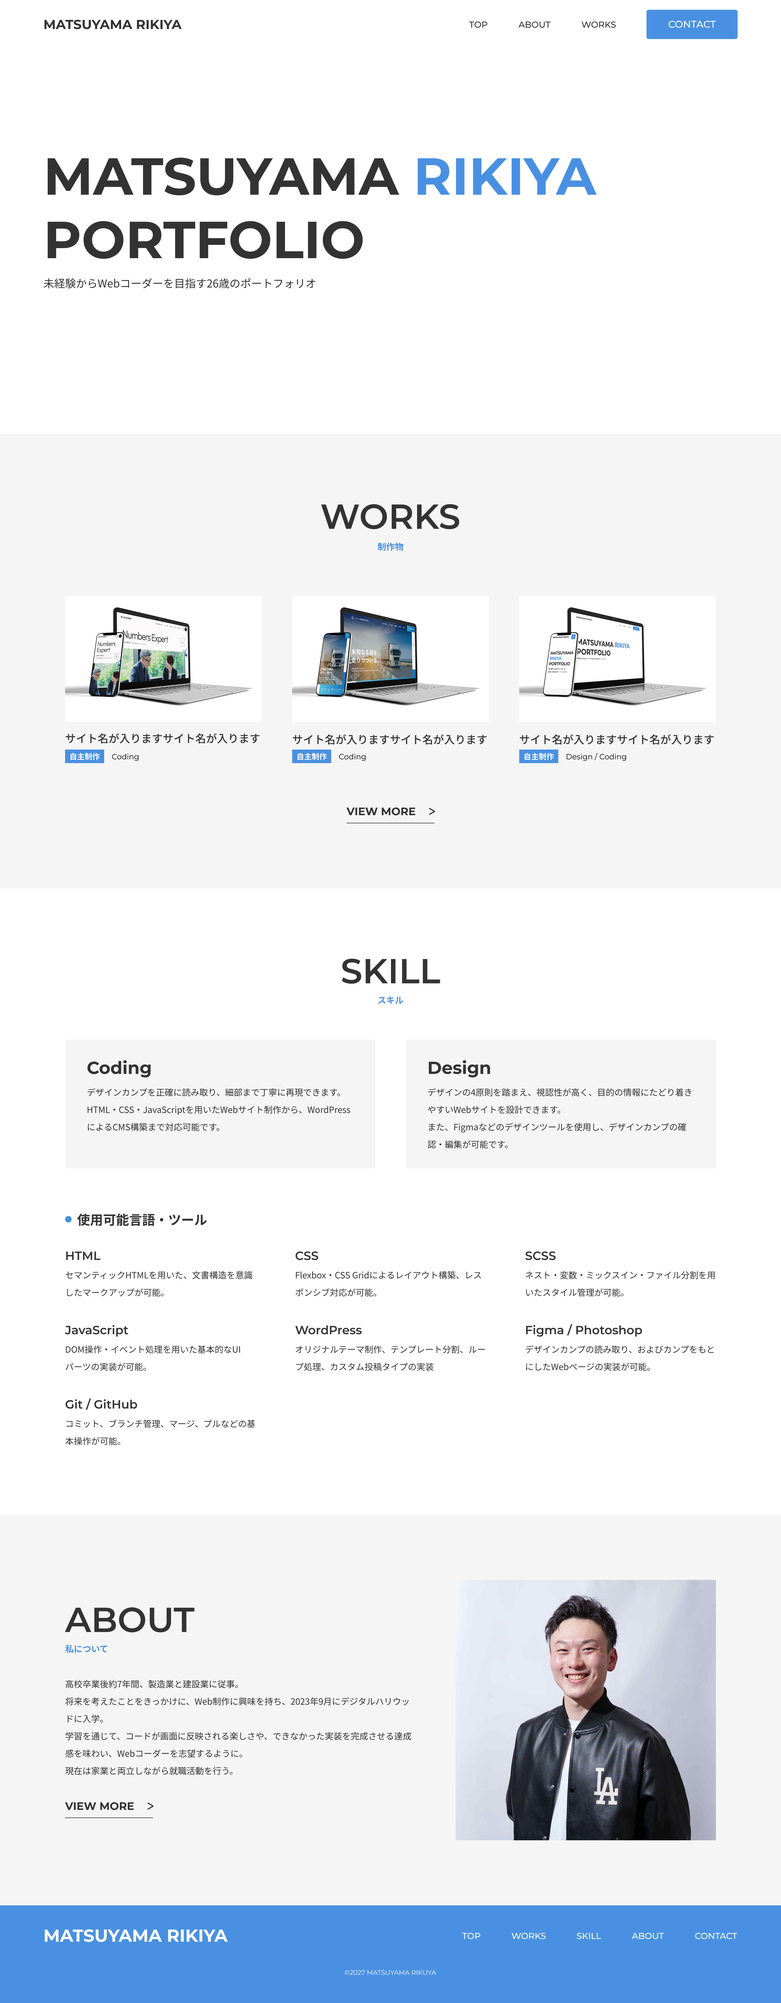
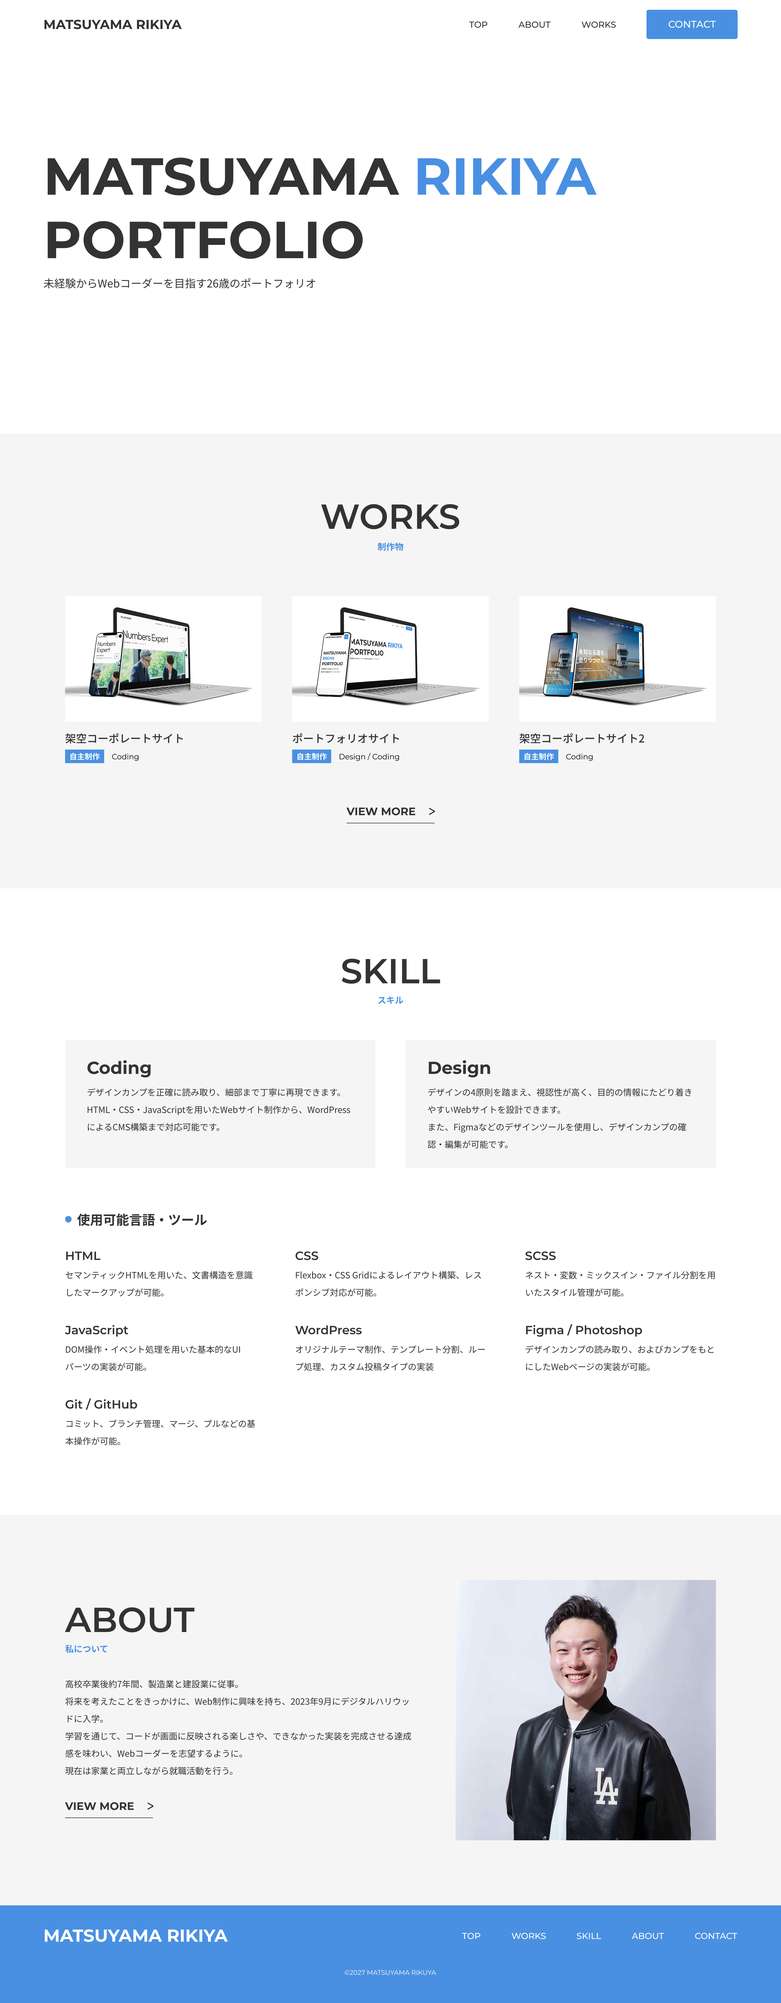
update: works詳細ページ 各ページのテキストを差し替え

Changed region(s): [[0.6875, 0.2803, 0.8438, 0.3737], [0.4062, 0.2803, 0.5312, 0.3737]]

diff --git a/works/detail/index.html b/works/detail/index.html
@@ -94,29 +94,36 @@
                     <!-- content -->
                     <div class="p-works-detail__content">
                         <p class="p-works-detail__text">
-                            <span>就職活動用のポートフォリオサイトです。</span>
-                            <span>コンテンツ構成設計から行い、採用担当の方が迷わないサイトを目指しました。</span>
+                            <span>HTML・CSS・JavaScriptのスキルを証明することを目的に制作した、</span>
+                            <span>架空の会計事務所「青山会計事務所」のWebサイトです。</span>
                         </p>
 
                         <dl>
                             <div class="p-works-detail__item">
-                                <dt>date</dt>
-                                <dd>2026.10</dd>
+                                <dt>制作日</dt>
+                                <dd>2026.09 ~ 2026.10</dd>
                             </div>
                             <div class="p-works-detail__item">
-                                <dt>site url</dt>
+                                <dt>デザインカンプ 提供元</dt>
+                                <dd>
+                                    <a class="u-link"
+                                        href="https://brain-market.com/u/hiroyuu/a/b0QzN5kTMgoTZsNWa0JXY">https://brain-market.com/u/hiroyuu/a/b0QzN5kTMgoTZsNWa0JXY</a>
+                                </dd>
+                            </div>
+                            <div class="p-works-detail__item">
+                                <dt>サイトurl</dt>
                                 <dd><a class="u-link"
                                         href="https://matsuyamarikiya.jp/accounting_firm_wordpress/">https://matsuyamarikiya.jp/accounting_firm_wordpress/</a>
                                 </dd>
                             </div>
                             <div class="p-works-detail__item">
-                                <dt>Frontend source</dt>
+                                <dt>ソースコード (フロントエンド)</dt>
                                 <dd><a class="u-link"
                                         href="https://github.com/matsuriki980/accounting_firm">https://github.com/matsuriki980/accounting_firm</a>
                                 </dd>
                             </div>
                             <div class="p-works-detail__item">
-                                <dt>WordPress source</dt>
+                                <dt>ソースコード (WordPress)</dt>
                                 <dd><a class="u-link"
                                         href="https://github.com/matsuriki980/accounting_firm_wordpress">https://github.com/matsuriki980/accounting_firm_wordpress</a>
                                 </dd>
@@ -144,7 +151,7 @@
                     <dl class="p-works-detail__explanation-list">
                         <div class="p-works-detail__explanation-item">
                             <dt>目的</dt>
-                            <dd>自身のスキルを伝え、Webコーダーとして採用していただくこと</dd>
+                            <dd>フロントエンドスキルとWordPressによるCMS構築スキルを伝えること</dd>
                         </div>
                         <div class="p-works-detail__explanation-item">
                             <dt>担当範囲</dt>
@@ -155,36 +162,57 @@
                             <dd>HTML / </dd>
                             <dd>SCSS / </dd>
                             <dd>JavaScript / </dd>
+                            <dd>WordPress / </dd>
                             <dd>Git・GitHub</dd>
                         </div>
                         <div class="p-works-detail__explanation-item">
                             <dt>制作期間</dt>
                             <dd>
-                                <span>デザイン：約4日</span>
-                                <span>コーディング：約10日</span>
+                                <span>HTML・SCSSコーディング：約2週間</span>
+                                <span>JavaScript実装：約4日</span>
+                                <span>WordPress構築：約8日</span>
                             </dd>
                         </div>
                         <div class="p-works-detail__explanation-item">
                             <dt>工夫した点</dt>
                             <dd>
                                 <div class="p-works-detail__description-group">
-                                    <span
-                                        class="p-works-detail__description-title">JavaScriptとCSS変数を活用したレスポンシブアニメーションの実装</span>
-                                    <span class="p-works-detail__description-text">4つの項目を示す円を線でつなぎ、線が伸びるアニメーションを実装しました。
-                                        当初はposition: absoluteを使用し、pxや%で線の位置と長さを指定していましたが、画面幅によって線がずれる問題が発生しました。
-                                        そこで、JavaScriptのgetBoundingClientRect()を使用し、ビューポートを基準に各要素の位置を取得する方法に変更しました。
-                                        具体的には、画面の上端・左端から円までの距離と、最初の円から最後の円までの距離を算出し、線の位置と長さを求めました。
-                                        算出した値をCSSカスタムプロパティ（CSS変数）に反映することで、画面幅に応じて線の位置と長さを自動調整できるようにしました。
-                                        これにより、画面幅による線のずれを解消し、レスポンシブに対応したアニメーションを実現しました。</span>
+                                    <span class="p-works-detail__description-title">再利用性と保守性を意識したコンポーネント設計</span>
+                                    <span class="p-works-detail__description-text">
+                                        <span>ヘッダー、フッター、セクションタイトルなど、複数ページで使用する共通パーツをHTML・CSSの両面からコンポーネント化し、再利用できるように設計しました。</span>
+                                        <span>これにより、デザインや構造の変更が発生した際も、共通部分を修正するだけで各ページに変更を反映できるようにしました。</span>
+                                        <span>結果として、コードの重複を減らし、保守性の向上と修正作業の効率化を図りました。</span>
+                                    </span>
+                                </div>
+
+                                <div class="p-works-detail__description-group">
+                                    <span class="p-works-detail__description-title">remを活用した可変レイアウトの実装</span>
+                                    <span class="p-works-detail__description-text">
+                                        <span>html要素のfont-sizeをcalc(100vw /
+                                            var(--base-vw))で設定し、画面幅に応じてrem単位の要素が比例して拡大・縮小する可変レイアウトを実装しました。</span>
+                                        <span>スマートフォンでは375px、PCでは1440pxを基準幅として切り替えることで、デザインカンプの数値をそのままrem単位で指定できるようにしました。</span>
+                                        <span>これにより、デザインカンプの数値を変換する手間を省きながら、画面幅に応じたサイズ調整を自動化し、実装作業の効率化と保守性の向上を図りました。</span>
+                                    </span>
+                                </div>
+
+                                <div class="p-works-detail__description-group">
+                                    <span class="p-works-detail__description-title">ページ判定によるメタ情報の一括管理 (WordPress)</span>
+                                    <span class="p-works-detail__description-text">
+                                        <span>ページごとに異なるtitleやog:typeなどのメタ情報を、条件分岐によって一括管理する仕組みを実装しました。</span>
+                                        <span>具体的には、ページの種類に応じて出力する値を判定し、変数に格納することで、共通のHTML構造から各ページに適したメタ情報を出力できるようにしました。</span>
+                                        <span>これにより、テンプレート内の重複した記述を削減し、コードの可読性と保守性の向上を図りました。</span>
+                                    </span>
                                 </div>
 
                                 <div class="p-works-detail__description-group">
                                     <span
-                                        class="p-works-detail__description-title">Works詳細ページにおけるSP・PC画像の切り替え機能の実装</span>
-                                    <span
-                                        class="p-works-detail__description-text">スマートフォンでの閲覧時に、SP・PC両方の画像を縦に並べると、スクロール量が増え、ユーザーの操作負担が大きくなるという課題がありました。
-                                        そこで、一度に表示する画像を1つに絞り、ボタン操作でSP・PCの画像を切り替えられる機能を実装しました。
-                                        これにより、不要なスクロールを減らし、ユーザーが必要な画像を選んで閲覧できるようにしました。</span>
+                                        class="p-works-detail__description-title">functions.phpによるCSS・JavaScriptの読み込み管理
+                                        (WordPress)</span>
+                                    <span class="p-works-detail__description-text">
+                                        <span>CSSやJavaScriptの読み込み処理を各テンプレートファイルに記述すると、管理が複雑になり、修正時の作業負担が増えるという課題がありました。</span>
+                                        <span>そこで、WordPressのfunctions.phpにwp_enqueue_style()とwp_enqueue_script()を使用した読み込み処理を集約し、一括管理できるようにしました。</span>
+                                        <span>これにより、各テンプレートへの重複した記述を防ぎ、コードの保守性と管理効率の向上を図りました。</span>
+                                    </span>
                                 </div>
                             </dd>
                         </div>

diff --git a/works/detail2/index.html b/works/detail2/index.html
@@ -100,17 +100,17 @@
 
                         <dl>
                             <div class="p-works-detail__item">
-                                <dt>date</dt>
+                                <dt>制作日</dt>
                                 <dd>2026.10</dd>
                             </div>
                             <div class="p-works-detail__item">
-                                <dt>site url</dt>
+                                <dt>サイトurl</dt>
                                 <dd><a class="u-link"
                                         href="https://matsuyamarikiya.jp/my_portfolio/">https://matsuyamarikiya.jp/my_portfolio/</a>
                                 </dd>
                             </div>
                             <div class="p-works-detail__item">
-                                <dt>frontend source</dt>
+                                <dt>ソースコード (フロントエンド)</dt>
                                 <dd><a class="u-link"
                                         href="https://github.com/matsuriki980/my_portfolio">https://github.com/matsuriki980/my_portfolio</a>
                                 </dd>
@@ -142,14 +142,15 @@
                         </div>
                         <div class="p-works-detail__explanation-item">
                             <dt>担当範囲</dt>
-                            <dd>コーディング</dd>
+                            <dd>デザイン / コーディング</dd>
                         </div>
                         <div class="p-works-detail__explanation-item">
                             <dt>使用技術</dt>
                             <dd>HTML / </dd>
                             <dd>SCSS / </dd>
                             <dd>JavaScript / </dd>
-                            <dd>Git・GitHub</dd>
+                            <dd>Git・GitHub /</dd>
+                            <dd>Figma</dd>
                         </div>
                         <div class="p-works-detail__explanation-item">
                             <dt>制作期間</dt>
@@ -164,21 +165,25 @@
                                 <div class="p-works-detail__description-group">
                                     <span
                                         class="p-works-detail__description-title">JavaScriptとCSS変数を活用したレスポンシブアニメーションの実装</span>
-                                    <span class="p-works-detail__description-text">4つの項目を示す円を線でつなぎ、線が伸びるアニメーションを実装しました。
-                                        当初はposition: absoluteを使用し、pxや%で線の位置と長さを指定していましたが、画面幅によって線がずれる問題が発生しました。
-                                        そこで、JavaScriptのgetBoundingClientRect()を使用し、ビューポートを基準に各要素の位置を取得する方法に変更しました。
-                                        具体的には、画面の上端・左端から円までの距離と、最初の円から最後の円までの距離を算出し、線の位置と長さを求めました。
-                                        算出した値をCSSカスタムプロパティ（CSS変数）に反映することで、画面幅に応じて線の位置と長さを自動調整できるようにしました。
-                                        これにより、画面幅による線のずれを解消し、レスポンシブに対応したアニメーションを実現しました。</span>
+                                    <span class="p-works-detail__description-text">
+                                        <span>4つの項目を示す円を線でつなぎ、線が伸びるアニメーションを実装しました。</span>
+                                        <span>当初はposition:
+                                            absoluteを使用し、pxや%で線の位置と長さを指定していましたが、画面幅によって線がずれる問題が発生しました。</span>
+                                        <span>そこで、JavaScriptのgetBoundingClientRect()を使用し、ビューポートを基準に各要素の位置を取得する方法に変更しました。</span>
+                                        <span>具体的には、画面の上端・左端から円までの距離と、最初の円から最後の円までの距離を算出し、線の位置と長さを求めました。</span>
+                                        <span>算出した値をCSSカスタムプロパティ（CSS変数）に反映することで、画面幅に応じて線の位置と長さを自動調整できるようにしました。</span>
+                                        <span>これにより、画面幅による線のずれを解消し、レスポンシブに対応したアニメーションを実現しました。</span>
+                                    </span>
                                 </div>
 
                                 <div class="p-works-detail__description-group">
                                     <span
-                                        class="p-works-detail__description-title">Works詳細ページにおけるSP・PC画像の切り替え機能の実装</span>
-                                    <span
-                                        class="p-works-detail__description-text">スマートフォンでの閲覧時に、SP・PC両方の画像を縦に並べると、スクロール量が増え、ユーザーの操作負担が大きくなるという課題がありました。
-                                        そこで、一度に表示する画像を1つに絞り、ボタン操作でSP・PCの画像を切り替えられる機能を実装しました。
-                                        これにより、不要なスクロールを減らし、ユーザーが必要な画像を選んで閲覧できるようにしました。</span>
+                                        class="p-works-detail__description-title">Works詳細ページにおける、プレビュー画像のSP・PC切り替え機能の実装</span>
+                                    <span class="p-works-detail__description-text">
+                                        <span>スマートフォンでの閲覧時に、SP・PC両方の画像を縦に並べると、スクロール量が増え、ユーザーの操作負担が大きくなるという課題がありました。</span>
+                                        <span>そこで、一度に表示する画像を1つに絞り、ボタン操作でSP・PCの画像を切り替えられる機能を実装しました。</span>
+                                        <span>これにより、不要なスクロールを減らし、ユーザーが必要な画像を選んで閲覧できるようにしました。</span>
+                                    </span>
                                 </div>
                             </dd>
                         </div>

diff --git a/works/detail3/index.html b/works/detail3/index.html
@@ -94,23 +94,32 @@
                     <!-- content -->
                     <div class="p-works-detail__content">
                         <p class="p-works-detail__text">
-                            <span>就職活動用のポートフォリオサイトです。</span>
-                            <span>コンテンツ構成設計から行い、採用担当の方が迷わないサイトを目指しました。</span>
+                            <span>架空の物流会社 「トランス物流株式会社」のコーポレートサイトのTOPページ。</span>
+                            <span>「ココナラ」で購入したデザインカンプを再現しました。</span>
+                            <span>デザインカンプをもとにHTML、CSS、JavaScriptでコーディング。</span>
+                            <span>レスポンシブ対応まで行い、PC・スマートフォンで閲覧できるようにしました。</span>
                         </p>
 
                         <dl>
                             <div class="p-works-detail__item">
-                                <dt>date</dt>
-                                <dd>2026.10</dd>
+                                <dt>制作日</dt>
+                                <dd>2026.08</dd>
                             </div>
                             <div class="p-works-detail__item">
-                                <dt>site url</dt>
+                                <dt>デザインカンプ 提供元</dt>
+                                <dd>
+                                    <a class="u-link"
+                                        href="https://coconala.com/services/3024603?ref=talkroom">https://coconala.com/services/3024603?ref=talkroom</a>
+                                </dd>
+                            </div>
+                            <div class="p-works-detail__item">
+                                <dt>サイトurl</dt>
                                 <dd><a class="u-link"
                                         href="https://matsuyamarikiya.jp/trans_logistics/src/">https://matsuyamarikiya.jp/trans_logistics/src/</a>
                                 </dd>
                             </div>
                             <div class="p-works-detail__item">
-                                <dt>frontend source</dt>
+                                <dt>ソースコード</dt>
                                 <dd><a class="u-link"
                                         href="https://github.com/matsuriki980/trans_logistics">https://github.com/matsuriki980/trans_logistics</a>
                                 </dd>
@@ -138,7 +147,7 @@
                     <dl class="p-works-detail__explanation-list">
                         <div class="p-works-detail__explanation-item">
                             <dt>目的</dt>
-                            <dd>自身のスキルを伝え、Webコーダーとして採用していただくこと</dd>
+                            <dd>HTML/CSS/JavaScriptの基礎力を伝えること</dd>
                         </div>
                         <div class="p-works-detail__explanation-item">
                             <dt>担当範囲</dt>
@@ -147,15 +156,14 @@
                         <div class="p-works-detail__explanation-item">
                             <dt>使用技術</dt>
                             <dd>HTML / </dd>
-                            <dd>SCSS / </dd>
+                            <dd>CSS / </dd>
                             <dd>JavaScript / </dd>
                             <dd>Git・GitHub</dd>
                         </div>
                         <div class="p-works-detail__explanation-item">
                             <dt>制作期間</dt>
                             <dd>
-                                <span>デザイン：約4日</span>
-                                <span>コーディング：約10日</span>
+                                <span>コーディング：約10日 (1日2時間)</span>
                             </dd>
                         </div>
                         <div class="p-works-detail__explanation-item">

diff --git a/assets/css/style.css b/assets/css/style.css
@@ -1705,6 +1705,9 @@ figure {
   font-weight: 400;
   line-height: 2;
 }
+.p-works-detail__text span {
+  display: block;
+}
 @media (width >= 1080px) {
   .p-works-detail__text {
     font-size: clamp(16px, 16rem, 18px);

diff --git a/assets/scss/page/works/_works-detail.scss b/assets/scss/page/works/_works-detail.scss
@@ -89,6 +89,10 @@ figure {
   font-weight: g.$font-weight-regular;
   line-height: 2;
 
+  span {
+    display: block;
+  }
+
   @include g.media() {
     font-size: clamp(16px, 16rem, 18px);
   }
